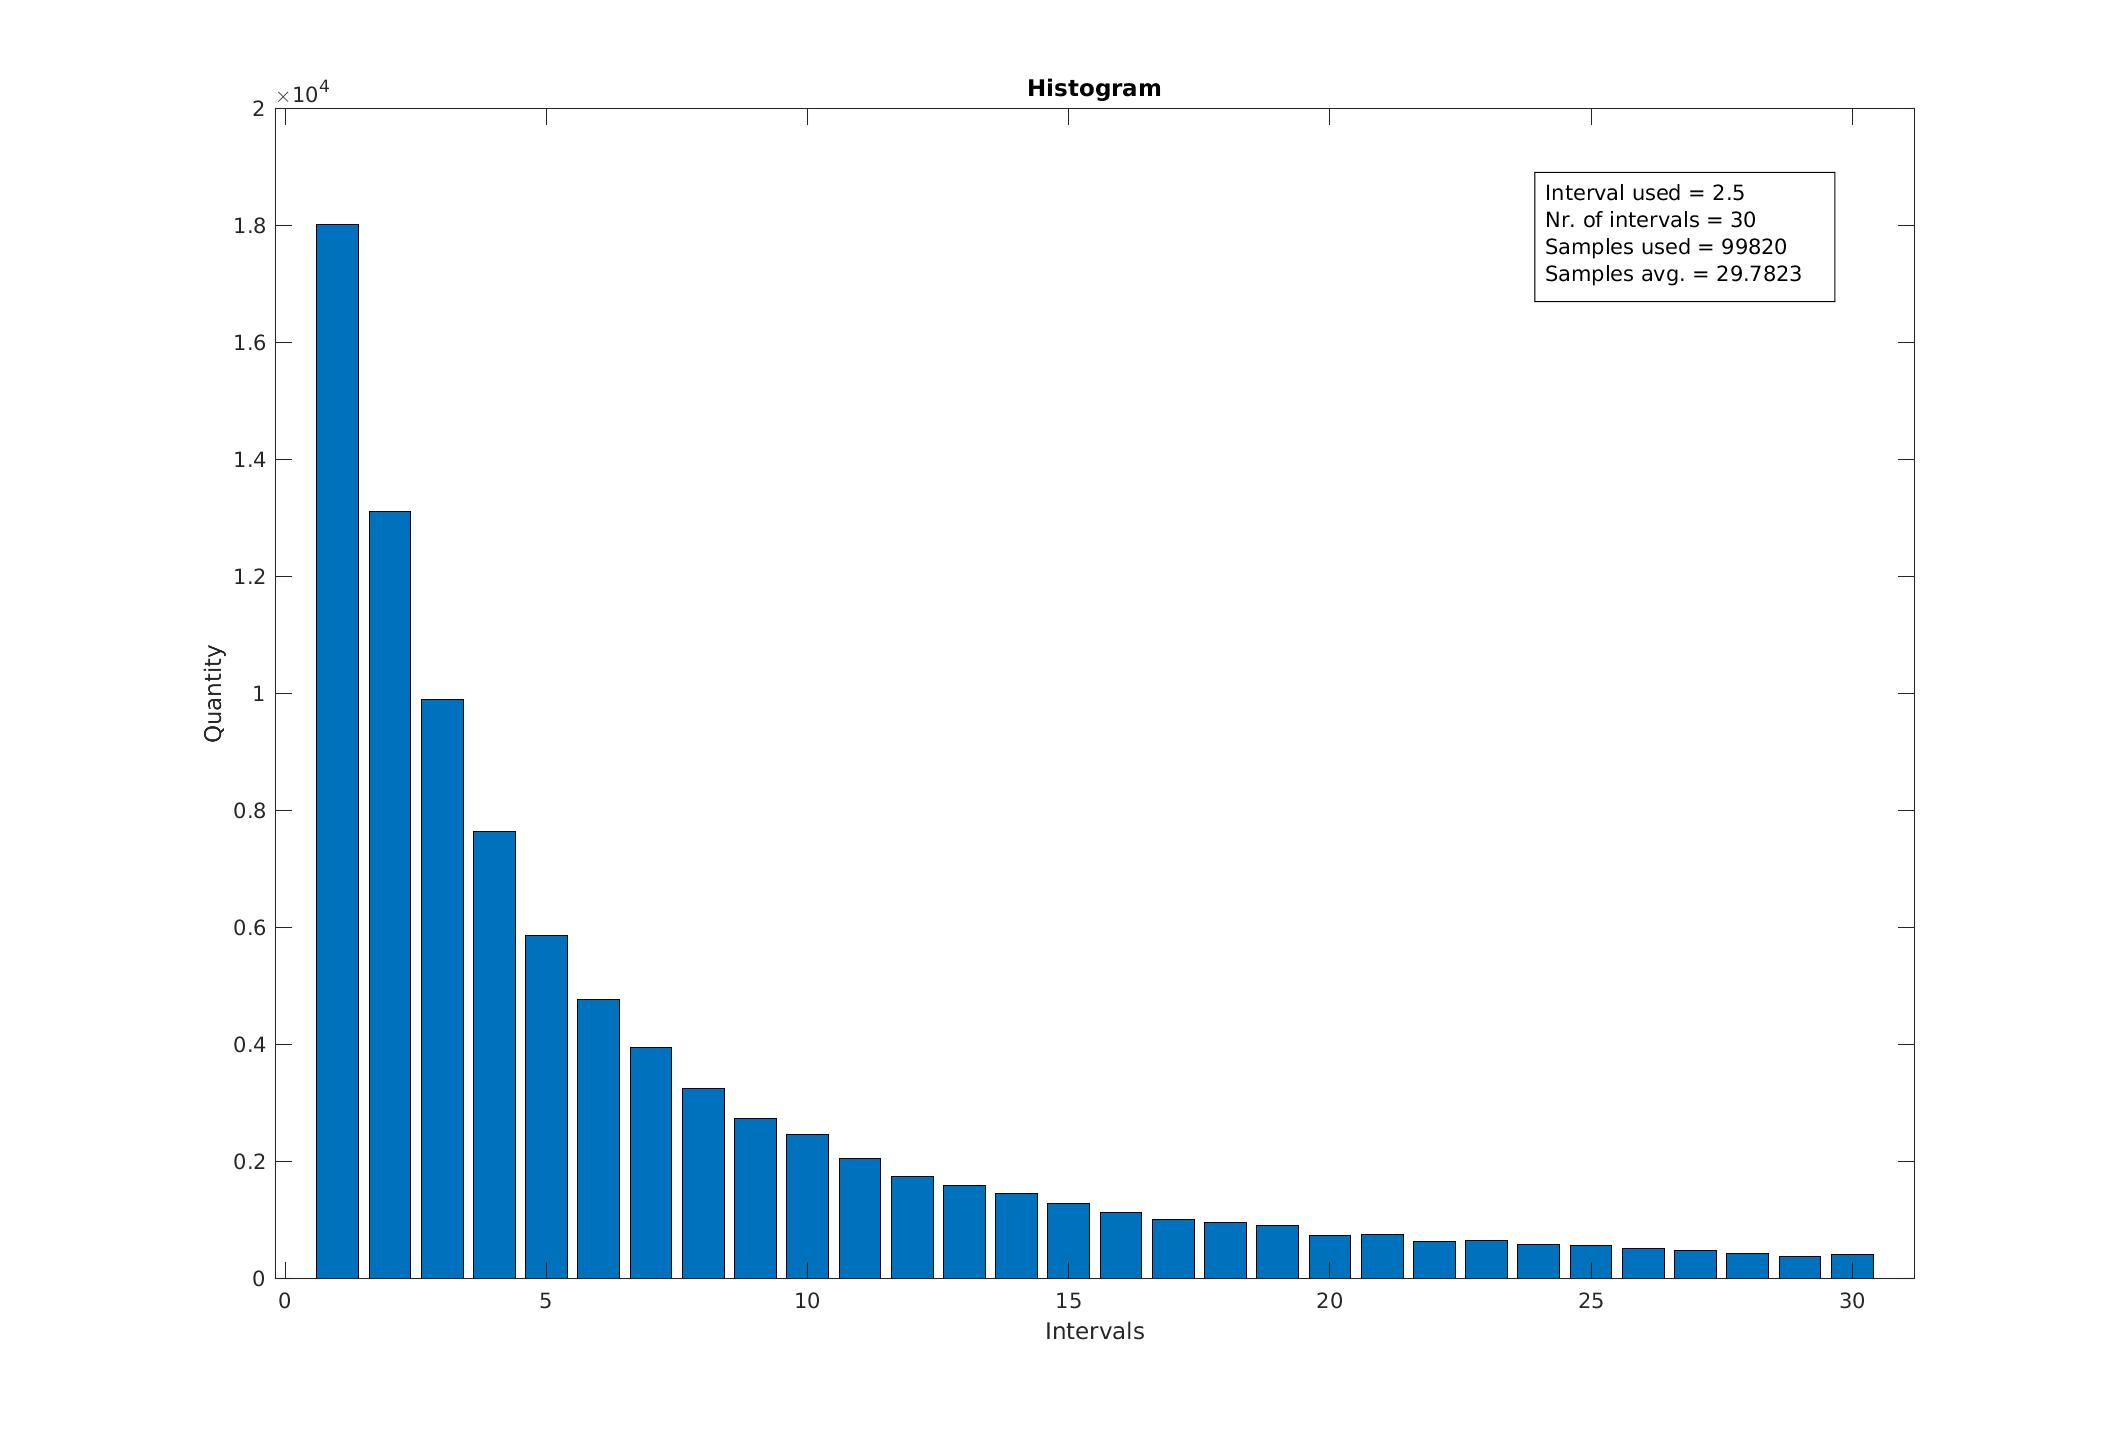
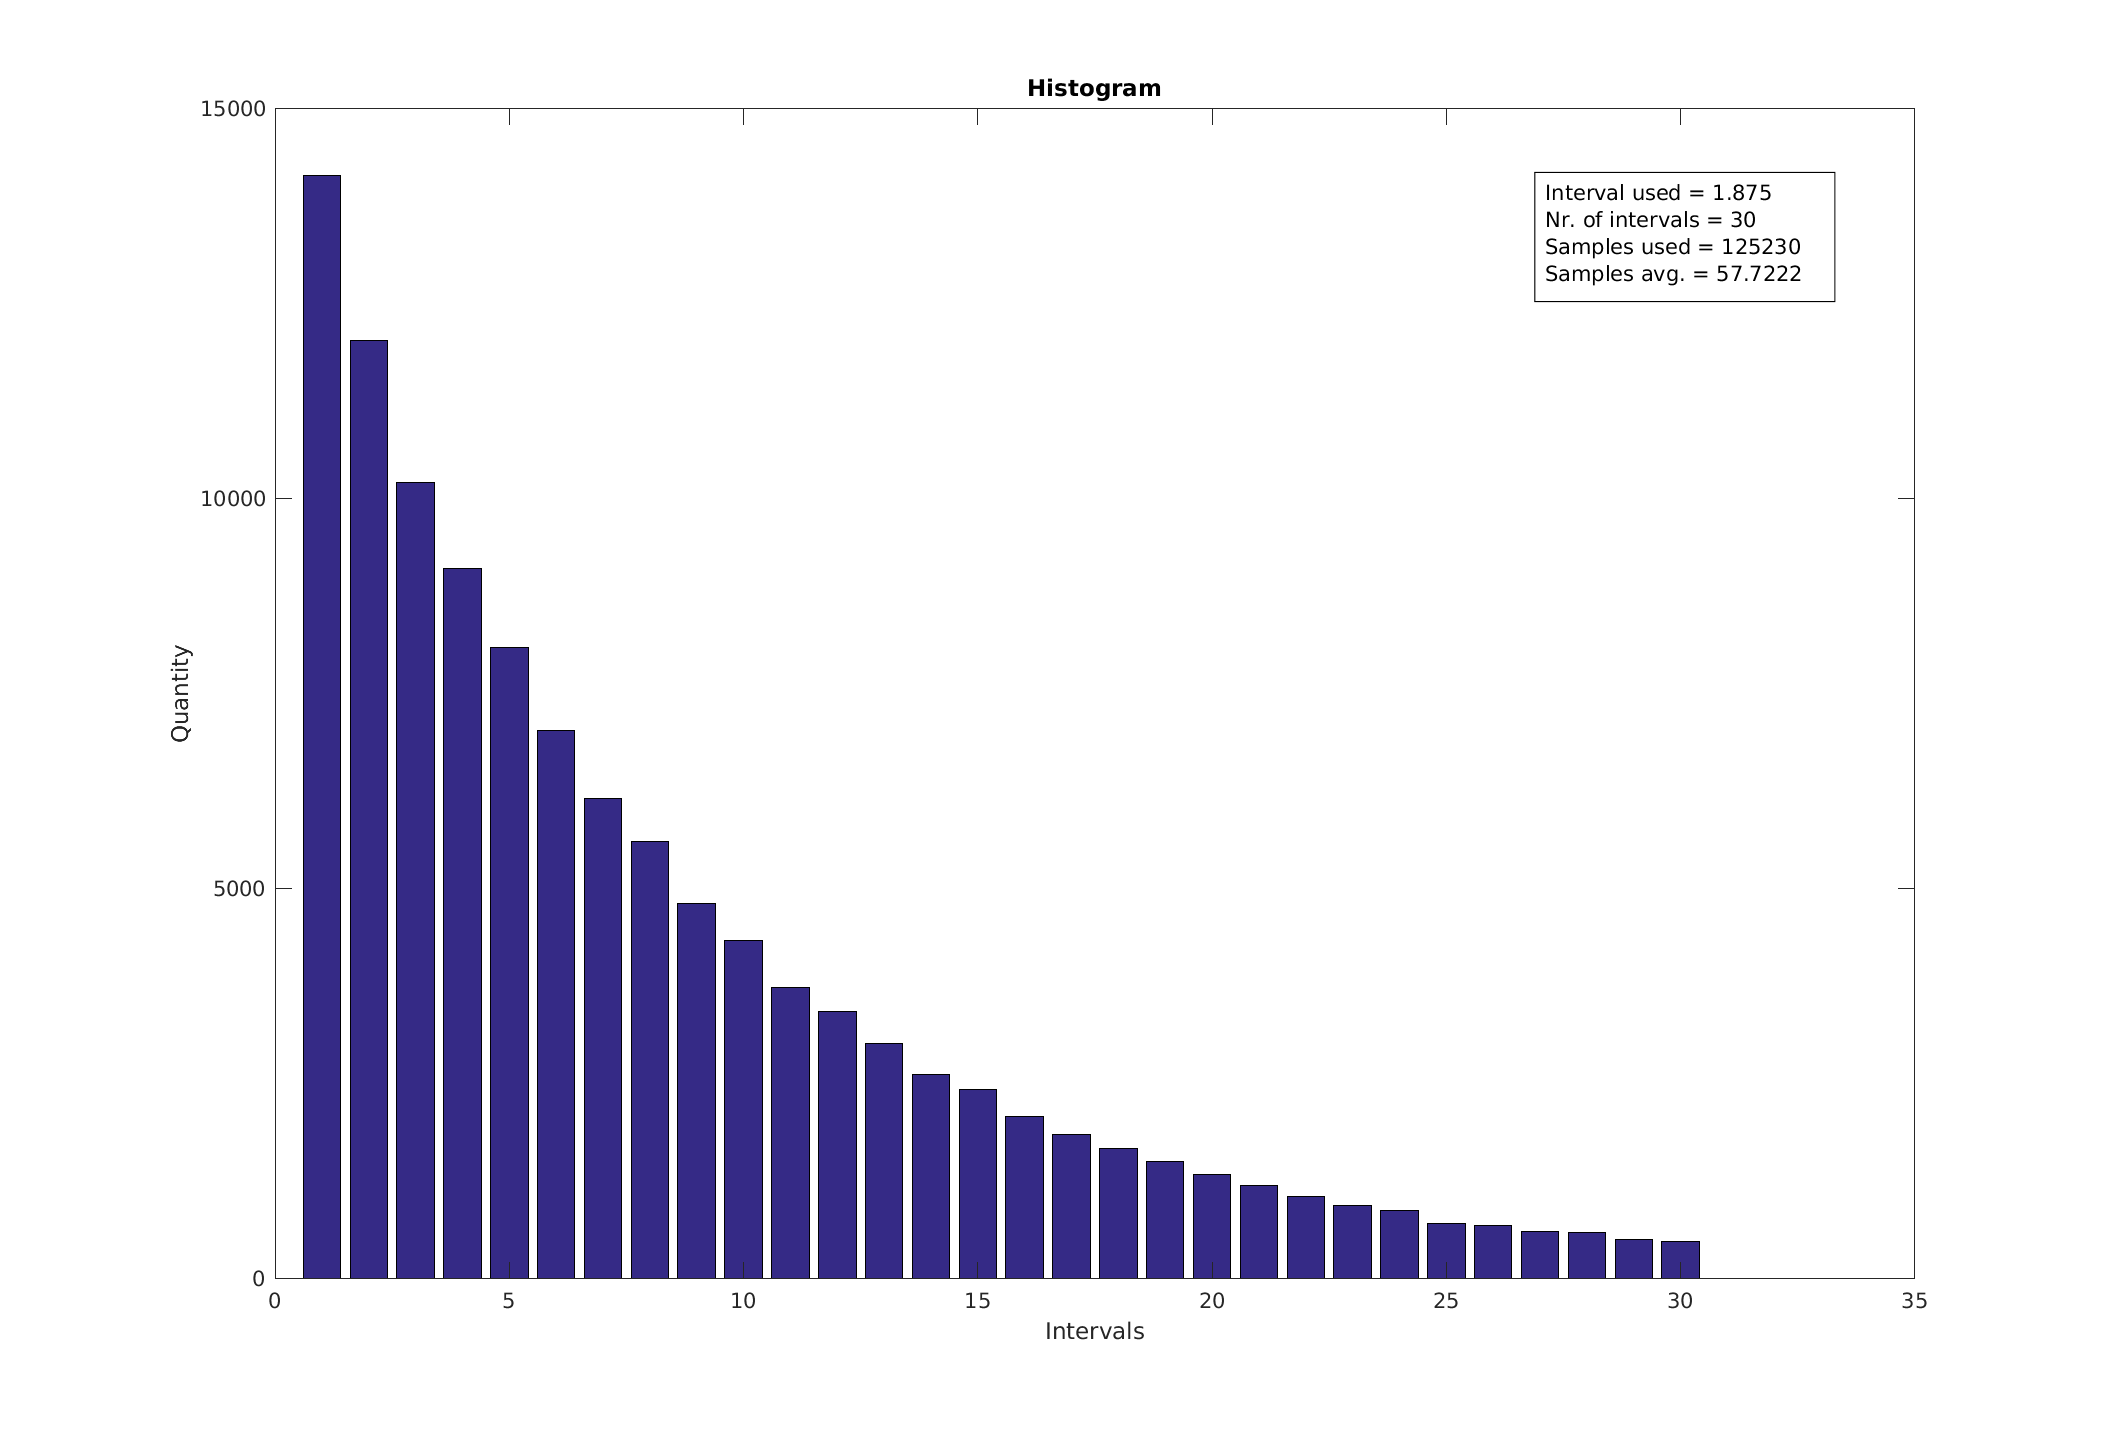
Only missing c)

Changed region(s): [[0.0624, 0.1225, 0.9041, 0.9186], [0.8106, 0.1225, 0.8418, 0.2143], [0.0935, 0.0612, 0.1247, 0.0919]]

diff --git a/lab2/lab2.c b/lab2/lab2.c
@@ -17,6 +17,7 @@ int main(int argc, char* argv[]){
   double t=10; //delay
   int m=0; //numero de canais
   int max_buffer=0;
+  	
 
   if(strcmp(argv[1],"a")==0){
     printf("Computing a)...\n");
@@ -29,7 +30,7 @@ int main(int argc, char* argv[]){
     printf("Computing b)...\n");
     max_buffer=1000;
     dm=2*60;
-    m=10;
+    m=8;
     k=20000;
     l=0.009*k/(double)(60*60);
   }
@@ -53,12 +54,12 @@ int main(int argc, char* argv[]){
   srand( time(NULL) );
 
 	lista  * event_list = NULL;
-	event_list = initialize(dm, l , m); //ocupação de recursos
-	proccess(argv[1], dm, l, t, m, total_samples, max_buffer ,event_list);
+	event_list = initialize(dm, l , m, k , argv[1]); //ocupação de recursos
+	proccess(argv[1], dm, l, t, m, total_samples, max_buffer, k ,event_list);
 	return 0;
 }
 
-lista* initialize(double dm, double l, int m){
+lista* initialize(double dm, double l, int m, int k, char* arg){
 
 	lista *init_list;
 	init_list = NULL;
@@ -66,11 +67,14 @@ lista* initialize(double dm, double l, int m){
 		//começam todos ao mesmo tempo
 		init_list = adicionar(init_list, FIM, duration_of_call(dm));
 	}
-	init_list = adicionar(init_list, INICIO, exponential(l));
+	if(strcmp("c",arg)==0)
+		init_list = adicionar(init_list, INICIO, exponential((double)l*(k-m)));
+	else 
+		init_list = adicionar(init_list, INICIO, exponential(l));
 	return init_list;
 }
 
-void proccess(char* arg ,double dm, double l, double t, int m, int total_samples, int max_buffer, lista * event_list){
+void proccess(char* arg ,double dm, double l, double t, int m, int total_samples, int max_buffer, int k ,lista * event_list){
 
 	servidor *server;
 	server = (servidor *)malloc(sizeof (servidor));
@@ -134,7 +138,8 @@ void proccess(char* arg ,double dm, double l, double t, int m, int total_samples
         if(strcmp(arg,"a")==0){
           blocked->samples++;
           }
-
+	else if((strcmp(arg,"b")==0 || strcmp(arg,"c")==0) && server->waiting >= max_buffer)
+	  blocked->samples++;	
         else if((strcmp(arg,"b")==0 || strcmp(arg,"c")==0) && server->waiting < max_buffer){
           (server->waiting)++;
           push(&time_stack, server->clock);
@@ -148,7 +153,10 @@ void proccess(char* arg ,double dm, double l, double t, int m, int total_samples
 			}
       if(server->clients_handled <= total_samples){
         server->clients_handled++;
-        event_list = adicionar(event_list, INICIO, server -> clock + exponential(l));
+	if(strcmp("c",arg)==0)
+		event_list = adicionar(event_list, INICIO, server -> clock + exponential((double)l*(k-m-server->waiting)));
+	else 
+		event_list = adicionar(event_list, INICIO, server -> clock + exponential((double)l));
       }
 		}
 		event_list = remover( event_list );
@@ -168,9 +176,11 @@ void proccess(char* arg ,double dm, double l, double t, int m, int total_samples
     //passar para o Matlab info sobre valores usados em simulação
     fprintf(f, " %f %d %f %f\n", interval, interval_nr ,client_delayed->samples, (double)(client_delayed->ammount)/(client_delayed->samples));
     fclose(f);
-
-    printf("Probability of delayed client: %f\n", (double)(client_delayed->samples)/(double)total_samples);
-    printf("Average time of delayed service: %f\n", (double)(client_delayed->ammount)/(client_delayed->samples));
+    printf("Blocked user probability: %f\n", (double)(blocked->samples)/(double)total_samples);	
+	double delay_prob = (double)(client_delayed->samples)/(double)total_samples;
+    printf("Probability of delayed client: %f\n", delay_prob);
+	
+    printf("Average time of delayed service: %f\n", ((double)(client_delayed->ammount)/(client_delayed->samples))*delay_prob);
     printf("Probability of delay being less than %f: %f\n\n\n",t ,(double)(less_than_t->samples)/(client_delayed->samples));
   }
 	free(client_delayed);

diff --git a/lab2/lab2.h b/lab2/lab2.h
@@ -20,9 +20,9 @@ typedef struct{
 	double ammount;
 } calc_average;
 
-lista* initialize(double dm, double l, int m);
+lista* initialize(double dm, double l, int m, int k, char* arg);
 
-void proccess(char* arg,double dm, double l, double t, int m, int total_samples,int max_buffer, lista * event_list);
+void proccess(char* arg,double dm, double l, double t, int m, int total_samples,int max_buffer, int k, lista * event_list);
 
 double exponential(double l);
 
